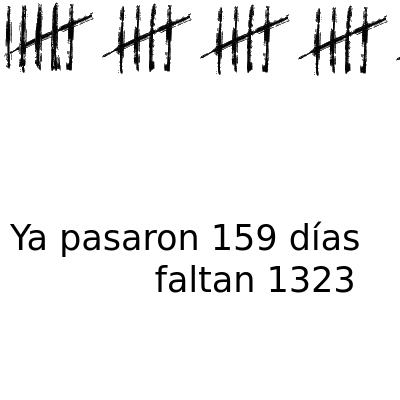
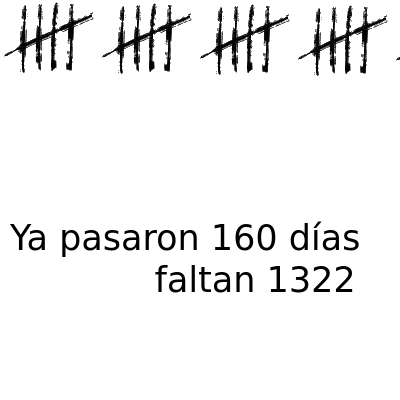
deploy: 28882f26f23b9f53dac6c4991168e610486d0e44

Changed region(s): [[0.0, 0.0, 0.15, 0.18], [0.57, 0.54, 0.69, 0.63], [0.84, 0.66, 0.9, 0.75]]

diff --git a/index.html b/index.html
@@ -3,19 +3,19 @@
   <head>
     <meta charset='utf-8'>
     <meta http-equiv='X-UA-Compatible' content='IE=edge'>
-    <title>Ya pasaron 159 días y faltan 1323</title>
-    <meta name="description" content="Ya pasaron 159 días y faltan 1323">
-    <meta itemprop="name" content="Ya pasaron 159 días y faltan 1323">
-    <meta itemprop="description" content="Ya pasaron 159 días y faltan 1323">
+    <title>Ya pasaron 160 días y faltan 1322</title>
+    <meta name="description" content="Ya pasaron 160 días y faltan 1322">
+    <meta itemprop="name" content="Ya pasaron 160 días y faltan 1322">
+    <meta itemprop="description" content="Ya pasaron 160 días y faltan 1322">
     <meta name="twitter:card" content="summary">
-    <meta name="twitter:title" content="Ya pasaron 159 días y faltan 1323">
-    <meta name="twitter:description" content="Ya pasaron 159 días y faltan 1323">
+    <meta name="twitter:title" content="Ya pasaron 160 días y faltan 1322">
+    <meta name="twitter:description" content="Ya pasaron 160 días y faltan 1322">
     <meta name="twitter:creator" content="@FloriusWasTaken">
     <meta name="twitter:image" content="https://pasaron.meme.ar/capture.png">
-    <meta property="og:title" content="Ya pasaron 159 días y faltan 1323">
-    <meta property="og:description" content="Ya pasaron 159 días y faltan 1323">
+    <meta property="og:title" content="Ya pasaron 160 días y faltan 1322">
+    <meta property="og:description" content="Ya pasaron 160 días y faltan 1322">
     <meta property="og:url" content="https://pasaron.meme.ar">
-    <meta property="og:site_name" content="Ya pasaron 159 días y faltan 1323">
+    <meta property="og:site_name" content="Ya pasaron 160 días y faltan 1322">
     <meta property="og:type" content="website">
     <meta property="og:image" content="https://pasaron.meme.ar/capture.png">
     <meta name="theme-color" content="#dc143c">
@@ -69,18 +69,16 @@
         padding: 0;
       }
     </style>
-    <title>Ya pasaron 159 días y faltan 1323</title>
+    <title>Ya pasaron 160 días y faltan 1322</title>
   </head>
   <body>
     <div id="main">
-      <img src="img/5.png"/><img src="img/5.png"/><img src="img/5.png"/><img src="img/5.png"/><img src="img/5.png"/><img src="img/5.png"/><img src="img/5.png"/><img src="img/5.png"/><img src="img/5.png"/><img src="img/5.png"/><img src="img/5.png"/><img src="img/5.png"/><img src="img/5.png"/><img src="img/5.png"/><img src="img/5.png"/><img src="img/5.png"/><img src="img/5.png"/><img src="img/5.png"/><img src="img/5.png"/><img src="img/5.png"/><img src="img/5.png"/><img src="img/5.png"/><img src="img/5.png"/><img src="img/5.png"/><img src="img/5.png"/><img src="img/5.png"/><img src="img/5.png"/><img src="img/5.png"/><img src="img/5.png"/><img src="img/5.png"/><img src="img/5.png"/>
-      
-        <img src="img/4.png"/>
+      <img src="img/5.png"/><img src="img/5.png"/><img src="img/5.png"/><img src="img/5.png"/><img src="img/5.png"/><img src="img/5.png"/><img src="img/5.png"/><img src="img/5.png"/><img src="img/5.png"/><img src="img/5.png"/><img src="img/5.png"/><img src="img/5.png"/><img src="img/5.png"/><img src="img/5.png"/><img src="img/5.png"/><img src="img/5.png"/><img src="img/5.png"/><img src="img/5.png"/><img src="img/5.png"/><img src="img/5.png"/><img src="img/5.png"/><img src="img/5.png"/><img src="img/5.png"/><img src="img/5.png"/><img src="img/5.png"/><img src="img/5.png"/><img src="img/5.png"/><img src="img/5.png"/><img src="img/5.png"/><img src="img/5.png"/><img src="img/5.png"/><img src="img/5.png"/>
       
     </div>
     <footer id="footer">
       <marquee id="marquee" class="is-vertical-align">
-        Ya pasaron 159 días y faltan 1323
+        Ya pasaron 160 días y faltan 1322
       </marquee>
       <ul>
         <li>
